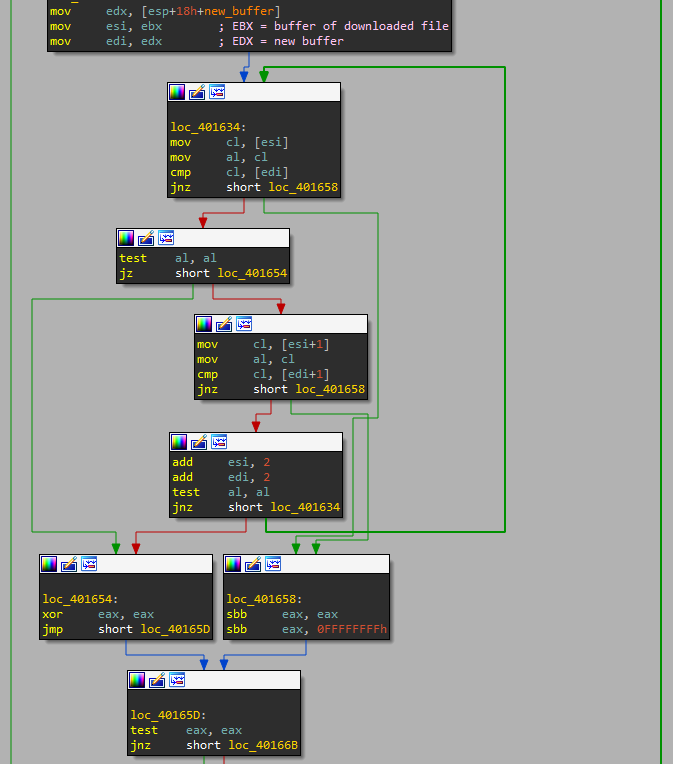
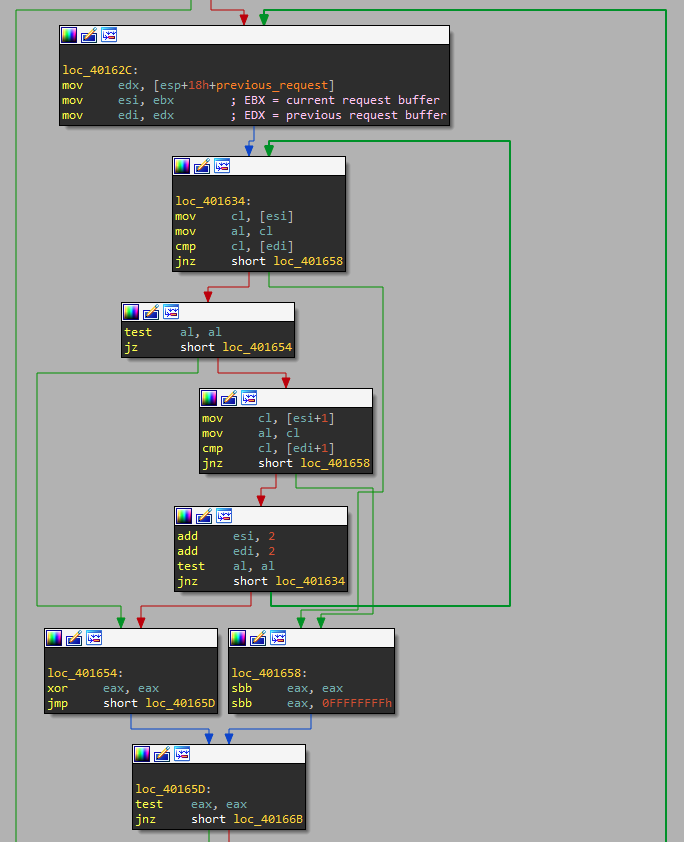
Lab14 exercises (to be completed...)

Changed region(s): [[0.0, 0.0, 0.7489, 1.0], [0.9673, 0.0, 0.9985, 1.0]]

diff --git a/Labs/Lab_14.md b/Labs/Lab_14.md
@@ -201,6 +201,10 @@ __p__fmode
 
 As we can see, the malware uses the library _WININET.dll_, which is included in _WINAPI_. The usage of such library are highly monitored since it is the main method the malware binaries use to communicate with their _C&Cs_.
 
+Also, the _User-Agent_ must be hard-coded to be provided, and optional headers need to be hard-coded if desired.
+
+One advantage of the such library over the _Winsock API_, for example, is that some elements, such as cookies and caching headers, are provided by the operating system.
+
 **3. What is the source of the URL that the malware uses for beaconing? What advantages does this source offer?**
 
 To get the _URL_ that the malware uses, we need to understand the execution flow of it.
@@ -223,7 +227,13 @@ LANGUAGE LANG_ENGLISH, SUBLANG_ENGLISH_US
 
 ![_Resource Hacker_ string resource](../Pictures/Lab_14/lab_14-02_3_resource_hacker_1.png)
 
-We have obtained an _URL_ composed by an _IP_ address! However, we need to dig deeper to see if the malware uses something more.
+We have obtained an _URL_ composed by an _IP_ address!
+
+The usage of a resource string to store the _URL_ or _IP_ address of the _C&C_ is useful to hide it, since some beginner analysts could failed to locate it.
+
+**4. Which aspect of the HTTP protocol does the malware leverage to achieve its objectives?**
+
+Once we have found the _C&C_ _URL_, we need to dig deeper to see how it uses _HTTP_ communication.
 
 Then, the malware creates two events, reserve some memory with _malloc_ and copies the _URL_ into the reserved buffer at offset _0x14_ (notice the pointer to the buffer is stored in _EBX_ register).
 
@@ -309,6 +319,10 @@ Then, it will call _InternetOpenUrlA_ using the known _URL_.
 
 After that it return to _connect_to_cnc_1_, which executes this process again and again.
 
+**5. What kind of information is communicated in the malware’s initial beacon?**
+
+To understand what the malware communicates, we need to continue analyzing the sample, since at this moment we only know it takes the data from the created pipe.
+
 So now, let's take a look to what the malware does after create the first thread.
 
 ![_IDA Pro_ _CreateThread_ 2](../Pictures/Lab_14/lab_14-02_3_ida_pro_18.png)
@@ -327,22 +341,35 @@ This new function, _cnc_communicaton_read_file_, will perform an _HTTP_ request 
 
 ![_IDA Pro_ _cnc_communicaton_read_file_](../Pictures/Lab_14/lab_14-02_3_ida_pro_20.png)
 
-Then the malware will analyze the buffer of the file obtained from the _C&C_ in the _connect_to_cnc_2_ function.
+Then the malware will analyze the buffer obtained from the _C&C_ in the _connect_to_cnc_2_ function to check if this one is the same as the one received in the previous request.
 
-![_IDA Pro_ _connect_to_cnc_2_ file analysis](../Pictures/Lab_14/lab_14-02_3_ida_pro_21.png)
+![_IDA Pro_ _connect_to_cnc_2_ buffer check](../Pictures/Lab_14/lab_14-02_3_ida_pro_21.png)
 
+If it is not the same, it will compare the received buffer with the string "exit", and if it is true, it will exit. Also, it will copy the received buffer into the one called _previous_request_.
 
-**4. Which aspect of the HTTP protocol does the malware leverage to achieve its objectives?**
+![_IDA Pro_ _connect_to_cnc_2_ buffer copy and command check](../Pictures/Lab_14/lab_14-02_3_ida_pro_22.png)
 
-**5. What kind of information is communicated in the malware’s initial beacon?**
+If the received buffer is different from "exit", it will append to it the string "\n" and then write it to the write handle of the second pipe, which indeed it is copying to the _CMD_ process previously commented.
+
+![_IDA Pro_ _connect_to_cnc_2_ write file](../Pictures/Lab_14/lab_14-02_3_ida_pro_23.png)
+
+Then, it will repeat this process again and again.
 
 **6. What are some disadvantages in the design of this malware’s communication channels?**
 
+The main problem about the communication channel design is that the incoming commands are not encoded, which may result quite suspicious for a defender.
+
 **7. Is the malware’s encoding scheme standard?**
+
+As explained in the exercise 4, the _base64_ implementation uses a different alphabet.
 
 **8. How is communication terminated?**
 
+The communication is terminated by means of the "exit" command, as explained in the exercise 5.
+
 **9. What is the purpose of this malware, and what role might it play in the attacker’s arsenal?**
+
+The whole program is simply a reverse shell to the command and control _URL_ _http://127.0.0.1/tenfour.html_.
 
 ## Lab 14-3
 
